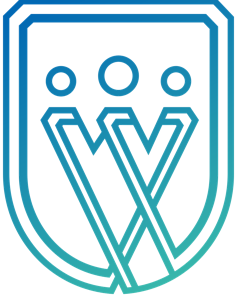
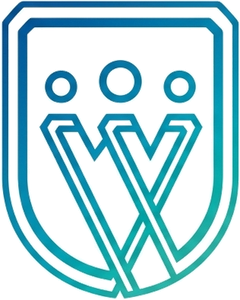
Nova identidade: Miranda Soluções & Seguros
Troca o logo no topo, no cartão do destaque, no rodapé, no ícone da aba
e na política de privacidade, e atualiza o nome da empresa nos textos.

Claude-Session: https://claude.ai/code/session_01PUnsFvfebWnxjrJLYmgHtZ

diff --git a/index.html b/index.html
@@ -3,13 +3,14 @@
 <head>
 <meta charset="UTF-8">
 <meta name="viewport" content="width=device-width, initial-scale=1">
-<title>Miranda Seguros – Corretora de Seguros em Goiana-PE</title>
+<title>Miranda Soluções &amp; Seguros – Corretora de Seguros em Goiana-PE</title>
 <meta name="description" content="Corretora de seguros em Goiana-PE desde 2002. Seguro auto, vida, plano de saúde, residencial, empresarial e mais. Cotação rápida pelo WhatsApp.">
-<meta property="og:title" content="Miranda Seguros – Sua segurança é aqui">
+<meta property="og:title" content="Miranda Soluções &amp; Seguros – Sua segurança é aqui">
 <meta property="og:description" content="Seguro auto, vida, plano de saúde, residencial e empresarial. Atendimento personalizado em Goiana-PE.">
-<meta property="og:image" content="assets/logo-vertical.png">
+<meta property="og:image" content="https://mirandaseguros.com.br/assets/og-image.jpg">
 <meta name="theme-color" content="#0a6ab5">
-<link rel="icon" href="assets/brasao.png">
+<link rel="icon" href="assets/favicon.png">
+<link rel="apple-touch-icon" href="assets/brasao.png">
 <link rel="preconnect" href="https://fonts.googleapis.com">
 <link rel="preconnect" href="https://fonts.gstatic.com" crossorigin>
 <link href="https://fonts.googleapis.com/css2?family=Montserrat:wght@400;500;600;700;800&display=swap" rel="stylesheet">
@@ -44,7 +45,7 @@ h2{font-size:clamp(1.7rem,3.2vw,2.4rem);font-weight:800;margin-bottom:14px}
 header{position:sticky;top:0;z-index:50;background:rgba(255,255,255,.95);backdrop-filter:blur(8px);border-bottom:1px solid var(--line)}
 .nav{display:flex;align-items:center;justify-content:space-between;height:76px;gap:20px}
 .brand{display:flex;align-items:center;gap:12px}
-.brand img{height:48px;width:auto}
+.brand img{height:58px;width:auto}
 .brand b{display:block;font-size:1.3rem;font-weight:800;color:var(--blue);line-height:1}
 .brand small{display:block;font-size:.66rem;font-weight:700;letter-spacing:.1em;color:var(--teal);text-transform:uppercase;margin-top:4px}
 .menu{display:flex;align-items:center;gap:28px;font-weight:600;font-size:.92rem}
@@ -64,7 +65,7 @@ header{position:sticky;top:0;z-index:50;background:rgba(255,255,255,.95);backdro
 .hero-badges div{font-size:.85rem;opacity:.95}
 .hero-badges strong{display:block;font-size:1.6rem;font-weight:800}
 .hero-card{background:#fff;border-radius:24px;padding:36px;box-shadow:0 30px 60px rgba(0,0,0,.18);color:var(--ink);text-align:center}
-.hero-card img{width:150px;margin:0 auto 16px}
+.hero-card img{width:100%;max-width:260px;margin:0 auto 20px}
 .hero-card h3{font-size:1.15rem;margin-bottom:6px}
 .hero-card p{font-size:.92rem;color:var(--muted);margin:0 0 18px}
 
@@ -154,7 +155,7 @@ footer{background:var(--blue-dark);color:rgba(255,255,255,.8);padding:56px 0 28p
 footer h4{color:#fff;margin-bottom:14px;font-size:1rem}
 footer ul{list-style:none;display:grid;gap:8px}
 footer a:hover{color:#fff}
-.foot-brand img{height:56px;filter:brightness(0) invert(1);margin-bottom:14px}
+.foot-brand img{height:64px;width:auto;margin-bottom:16px}
 .copy{border-top:1px solid rgba(255,255,255,.12);margin-top:40px;padding-top:22px;display:flex;justify-content:space-between;flex-wrap:wrap;gap:10px;font-size:.82rem}
 
 /* WhatsApp flutuante */
@@ -214,10 +215,9 @@ footer a:hover{color:#fff}
 
 <header>
   <div class="container nav">
-    <a href="#inicio" class="brand" aria-label="Miranda Seguros – início">
-      <img src="assets/brasao.png" alt="Brasão Miranda Seguros" width="39" height="48">
-      <span><b>Miranda</b><small>Corretor de Seguros</small></span>
-    </a>
+    <a href="#inicio" class="brand" aria-label="Miranda Soluções &amp; Seguros – início">
+      <img src="assets/logo.png" alt="Miranda Soluções &amp; Seguros" width="146" height="52">
+          </a>
     <button class="burger" aria-label="Abrir menu" aria-expanded="false" onclick="toggleMenu(this)"><span></span><span></span><span></span></button>
     <nav class="menu" id="menu">
       <a href="#seguros">Seguros</a>
@@ -249,7 +249,7 @@ footer a:hover{color:#fff}
         </div>
       </div>
       <div class="hero-card">
-        <img src="assets/logo-vertical.png" alt="Miranda Corretor de Seguros" width="150" height="212">
+        <img src="assets/logo.png" alt="Miranda Soluções &amp; Seguros" width="260" height="92">
         <h3>Sua segurança é aqui</h3>
         <p>Atendimento próximo e personalizado, do orçamento ao sinistro.</p>
         <a class="btn btn-primary" href="#cotacao" style="width:100%;justify-content:center">Quero uma cotação</a>
@@ -306,7 +306,7 @@ footer a:hover{color:#fff}
   <section class="soft">
     <div class="container porque">
       <div>
-        <span class="eyebrow">Por que a Miranda Seguros</span>
+        <span class="eyebrow">Por que a Miranda Soluções &amp; Seguros</span>
         <h2>Proteger sua família é uma das decisões mais importantes</h2>
         <ul class="lista">
           <li><span class="check"><svg><use href="#i-check"/></svg></span><div><b>Segurança financeira</b><span>Estabilidade para sua família manter o padrão de vida e cobrir despesas essenciais, como educação e moradia.</span></div></li>
@@ -328,7 +328,7 @@ footer a:hover{color:#fff}
   <section id="sobre">
     <div class="container sobre">
       <div class="sobre-foto">
-        <img src="assets/gilberto-miranda.jpg" alt="Gilberto Miranda, corretor de seguros da Miranda Seguros" width="900" height="900" loading="lazy">
+        <img src="assets/gilberto-miranda.jpg" alt="Gilberto Miranda, corretor de seguros da Miranda Soluções &amp; Seguros" width="900" height="900" loading="lazy">
         <div class="tag"><b>Gilberto Miranda</b>Corretor de Seguros · SUSEP 201016676</div>
       </div>
       <div>
@@ -416,7 +416,7 @@ footer a:hover{color:#fff}
         </div>
         <div><label for="mensagem">Conte um pouco do que precisa</label><textarea id="mensagem" name="mensagem" placeholder="Ex.: carro modelo/ano, quantas vidas no plano de saúde…"></textarea></div>
         <button class="btn btn-whats" type="submit"><svg><use href="#i-whats"/></svg>Enviar pelo WhatsApp</button>
-        <p class="form-note">Ao enviar, você será direcionado ao WhatsApp da Miranda Seguros. Veja nossa <a href="politica-de-privacidade.html" style="text-decoration:underline">Política de Privacidade</a>.</p>
+        <p class="form-note">Ao enviar, você será direcionado ao WhatsApp da Miranda Soluções &amp; Seguros. Veja nossa <a href="politica-de-privacidade.html" style="text-decoration:underline">Política de Privacidade</a>.</p>
       </form>
     </div>
   </section>
@@ -449,7 +449,7 @@ footer a:hover{color:#fff}
         </div>
       </div>
       <div class="mapa">
-        <iframe title="Mapa – Miranda Seguros" loading="lazy" referrerpolicy="no-referrer-when-downgrade" src="https://maps.google.com/maps?q=Av.%20Nunes%20Machado%2C%20106%2C%20Centro%2C%20Goiana%20-%20PE&z=16&output=embed"></iframe>
+        <iframe title="Mapa – Miranda Soluções &amp; Seguros" loading="lazy" referrerpolicy="no-referrer-when-downgrade" src="https://maps.google.com/maps?q=Av.%20Nunes%20Machado%2C%20106%2C%20Centro%2C%20Goiana%20-%20PE&z=16&output=embed"></iframe>
       </div>
     </div>
   </section>
@@ -460,8 +460,8 @@ footer a:hover{color:#fff}
   <div class="container">
     <div class="foot">
       <div class="foot-brand">
-        <img src="assets/brasao.png" alt="Miranda Seguros" width="45" height="56">
-        <p>Miranda Seguros – Sua segurança é aqui.<br>Nós estaremos sempre ao seu lado.</p>
+        <img src="assets/logo-branco.png" alt="Miranda Soluções &amp; Seguros" width="158" height="56">
+        <p>Miranda Soluções &amp; Seguros – Sua segurança é aqui.<br>Nós estaremos sempre ao seu lado.</p>
         <p style="margin-top:10px;font-size:.82rem">Corretor responsável: Gilberto Miranda · SUSEP 201016676</p>
       </div>
       <div>
@@ -485,7 +485,7 @@ footer a:hover{color:#fff}
       </div>
     </div>
     <div class="copy">
-      <span>© <span id="ano">2026</span> Miranda Seguros · Gilberto Miranda. Todos os direitos reservados.</span>
+      <span>© <span id="ano">2026</span> Miranda Soluções &amp; Seguros · Gilberto Miranda. Todos os direitos reservados.</span>
       <span>Goiana-PE</span>
     </div>
   </div>

diff --git a/politica-de-privacidade.html b/politica-de-privacidade.html
@@ -3,16 +3,15 @@
 <head>
 <meta charset="UTF-8">
 <meta name="viewport" content="width=device-width, initial-scale=1">
-<title>Política de Privacidade – Miranda Seguros</title>
-<link rel="icon" href="assets/brasao.png">
+<title>Política de Privacidade – Miranda Soluções &amp; Seguros</title>
+<link rel="icon" href="assets/favicon.png">
 <link href="https://fonts.googleapis.com/css2?family=Montserrat:wght@400;600;800&display=swap" rel="stylesheet">
 <style>
 body{font-family:'Montserrat',system-ui,sans-serif;color:#1c2733;background:#f5f8fb;line-height:1.7;margin:0}
 .wrap{max-width:820px;margin:0 auto;padding:40px 20px 80px}
 a{color:#0a6ab5}
 .top{display:flex;align-items:center;gap:12px;margin-bottom:32px;text-decoration:none}
-.top img{height:48px}
-.top b{color:#0a6ab5;font-size:1.3rem}
+.top img{height:56px}
 .box{background:#fff;border-radius:16px;padding:36px;box-shadow:0 10px 30px rgba(11,63,107,.08)}
 h1{color:#0b3f6b;font-size:1.9rem;margin:0 0 8px}
 h2{color:#0b3f6b;font-size:1.15rem;margin:28px 0 8px}
@@ -21,10 +20,10 @@ p,li{color:#3d4a57;font-size:.97rem}
 </head>
 <body>
 <div class="wrap">
-  <a class="top" href="index.html"><img src="assets/brasao.png" alt="Miranda Seguros"><b>Miranda Seguros</b></a>
+  <a class="top" href="index.html"><img src="assets/logo.png" alt="Miranda Soluções &amp; Seguros"></a>
   <div class="box">
     <h1>Política de Privacidade</h1>
-    <p>Esta política explica como a Miranda Seguros (Gilberto Miranda – SUSEP 201016676) trata os dados pessoais recebidos por meio deste site, conforme a Lei Geral de Proteção de Dados (Lei nº 13.709/2018 – LGPD).</p>
+    <p>Esta política explica como a Miranda Soluções &amp; Seguros (Gilberto Miranda – SUSEP 201016676) trata os dados pessoais recebidos por meio deste site, conforme a Lei Geral de Proteção de Dados (Lei nº 13.709/2018 – LGPD).</p>
 
     <h2>1. Quais dados coletamos</h2>
     <p>Somente os dados que você nos informa voluntariamente ao pedir uma cotação ou entrar em contato: nome, telefone, cidade, tipo de seguro de interesse e as informações que você escrever na mensagem.</p>
@@ -46,7 +45,7 @@ p,li{color:#3d4a57;font-size:.97rem}
     <p>Você pode solicitar a qualquer momento acesso, correção ou exclusão dos seus dados pelo e-mail <a href="mailto:seguros@mirandaseguros.com.br">seguros@mirandaseguros.com.br</a> ou pelo telefone (81) 99532-3757.</p>
 
     <h2>6. Contato</h2>
-    <p>Miranda Seguros – Av. Nunes Machado, 106, Centro, Goiana-PE.</p>
+    <p>Miranda Soluções &amp; Seguros – Av. Nunes Machado, 106, Centro, Goiana-PE.</p>
 
     <p style="margin-top:32px"><a href="index.html">← Voltar para o site</a></p>
   </div>

diff --git a/README.md b/README.md
@@ -1,4 +1,4 @@
-# Site Miranda Seguros
+# Site Miranda Soluções & Seguros
 
 Site estático (HTML + CSS + um pouco de JavaScript), sem dependências e sem etapa de build.
 
